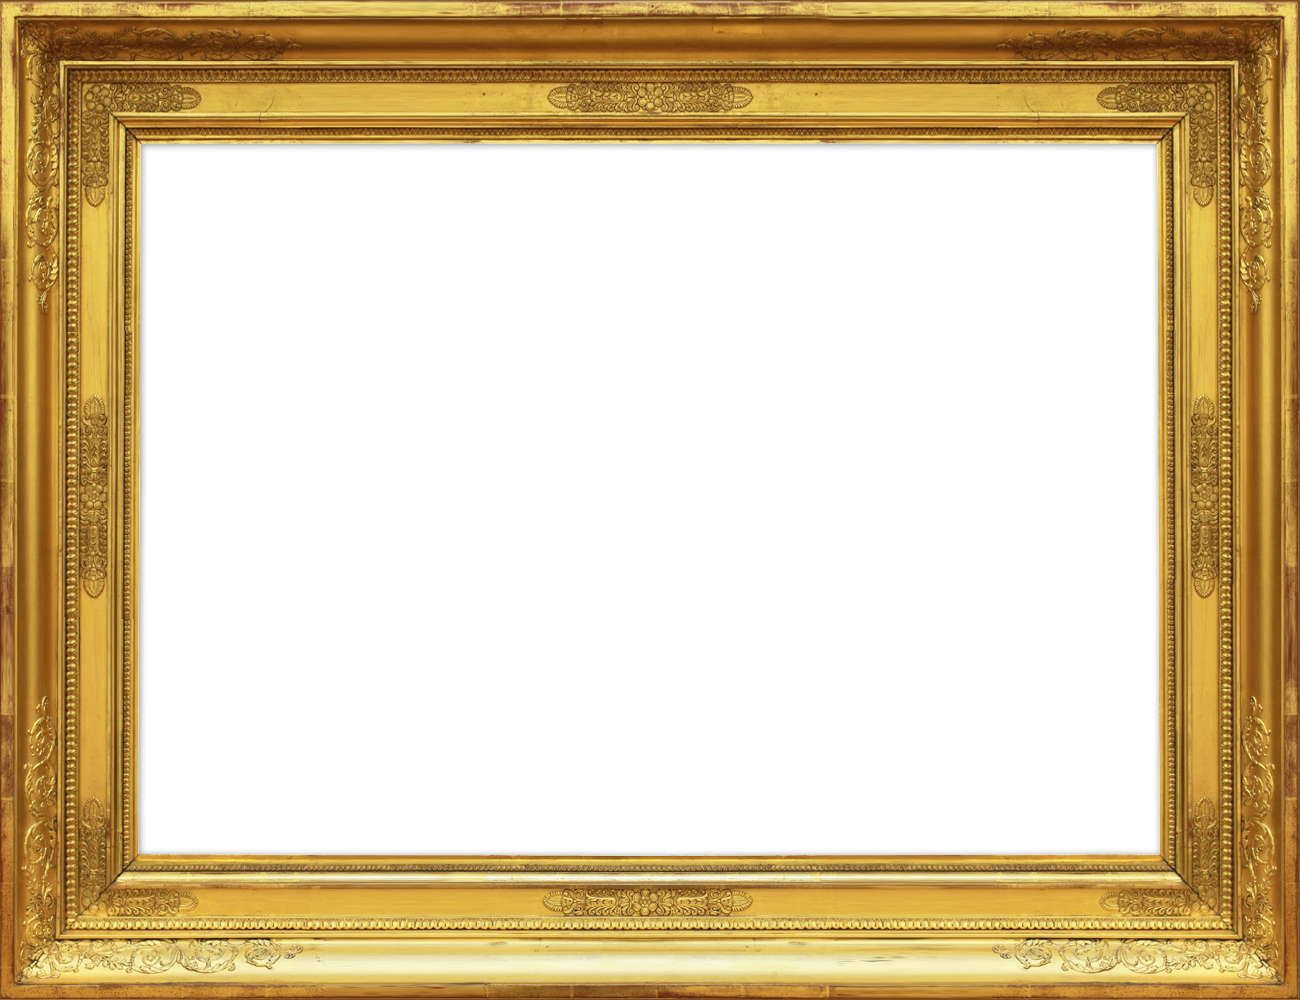
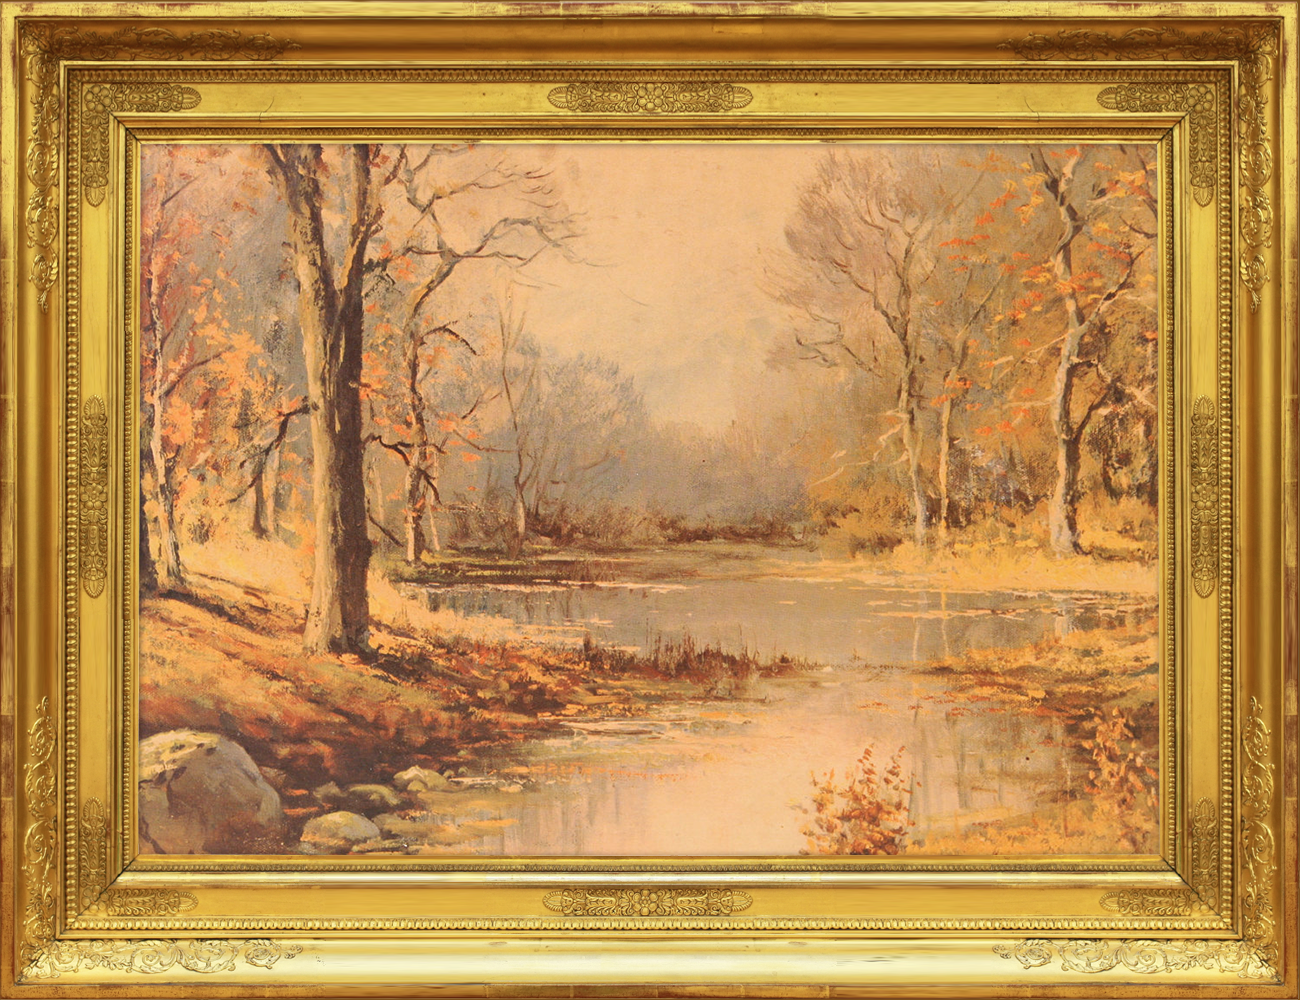
tweaks to look
Changed frame to include painting, added drop shadow

Tweaked positioning of elements

Changed z-index values to be more simple

diff --git a/style.css b/style.css
@@ -16,7 +16,6 @@ body {
 h1 {
   font-family: 'Great Vibes', cursive;
   font-size: 6vmin;
-  margin-bottom: 9vmin;
   color: rgba(0, 0, 100);
   text-shadow: 0.1vmin 0.1vmin blanchedalmond;
 }
@@ -30,9 +29,11 @@ h2 {
 
 #container {
   display: flex;
+  height: 100vh;
   flex-direction: column;
   justify-content: center;
   align-content: center;
+  pointer-events: none;
 }
 
 #top {
@@ -40,18 +41,21 @@ h2 {
   height: fit-content;
   justify-self: center;
   align-self: center;
+  z-index: 5;
 }
 
 #bottom {
   justify-self: center;
   justify-content: center;
+  pointer-events: none;
 }
 
 #frame {
   display: flex;
+  margin-bottom: 15vmin;
   align-content: center;
   justify-content: center;
-  z-index: -200;
+  z-index: 3;
   pointer-events: none;
 }
 
@@ -59,10 +63,12 @@ h2 {
   position: absolute;
   width: 120vmin;
   height: auto;
-  z-index: -200;
-  pointer-events: none;
+  z-index: 2;
   align-self: center;
   justify-self: center;
+  pointer-events: none;
+  border-radius: 0.1vmin;
+  box-shadow: 0.5vmin 0.5vmin 1vmin rgba(0, 0, 0, 0.5);
 }
 
 .pigeonimage-front {
@@ -84,24 +90,26 @@ h2 {
   display: grid;
   grid-template-columns: 1fr 1fr 1fr;
   gap: 4vmin;
+  pointer-events: all;
+  z-index: 2;
 }
 
 .pigeonDiv {
   display: flex;
-  background-color: whitesmoke;
   align-content: center;
   justify-content: center;
   padding: 1vmin;
   border-radius: 1vmin;
   width: 25vmin;
   height: 25vmin;
-  pointer-events: auto;
+  pointer-events: all;
 }
 
 .pigeonPara {
   font-size: 1.85vmin;
   padding: 1vmin;
   margin: 1vmin;
+  z-index: 100;
 }
 
 .pigeonExtract {
@@ -124,15 +132,18 @@ h2 {
 
 .pigeonExtract.active {
   transform: translate(-50%, -50%) scale(1);
+  z-index: 1000;
 }
 
 .extract-content {
   flex-basis: 50%;
   border-right: 1px solid gray;
+  z-index: 1000;
 }
 
 .extract-image {
   flex-basis: 50%;
+  z-index: 1000;
 }
 
 #overlay {
@@ -159,7 +170,8 @@ h2 {
   left: 0;
   right: 0;
   bottom: 0;
-  z-index: -1000;
+  z-index: 1;
+  pointer-events: none;
 }
 
 [alt='wallpaper'] {

diff --git a/index.html b/index.html
@@ -15,13 +15,13 @@
   </head>
   <body>
     <div id="container">
+      <img src="frame.png" id="frame-image" />
       <div id="top">
         <h1>Pigeons of the World</h1>
       </div>
       <div id="bottom">
         <div id="frame">
           <div id="pigeons"></div>
-          <img src="frame.png" id="frame-image" />
         </div>
       </div>
     </div>
